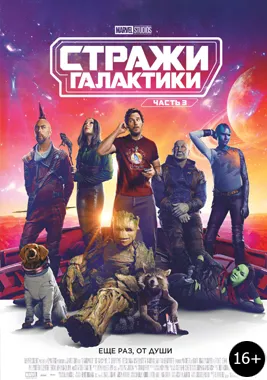
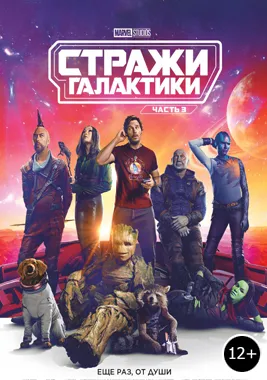
13-05-23

diff --git a/src/Content/Seans/scedule.js b/src/Content/Seans/scedule.js
@@ -1,2 +1,2 @@
-let scedule = {"day0":[["11:00","Яга и книга заклинаний 2D","6+",220],["13:00","Кот в сапогах 2: Последнее желание 2D","6+",300],["15:00","Вызов 2D","6+",350],["18:15","Стражи Галактики. Часть 3 2D","16+",420],["21:15","Стражи Галактики. Часть 3 2D","16+",370]],"day1":[["10:00","Яга и книга заклинаний 2D","6+",220],["12:00","Кот в сапогах 2: Последнее желание 2D","6+",300],["14:00","Вызов 2D","6+",350],["17:15","Достать ножи: Стеклянная луковица 2D","16+",370],["19:50","Вызов 2D","6+",400],["23:00","Улыбка 2D","18+",320]],"day2":[["11:00","Яга и книга заклинаний 2D","6+",220],["13:00","Кот в сапогах 2: Последнее желание 2D","6+",300],["15:00","Вызов 2D","6+",350],["18:15","Вызов 2D","6+",400],["21:25","Достать ножи: Стеклянная луковица 2D","16+",300]],"day3":[["13:15","Яга и книга заклинаний 2D","6+",220],["15:10","Вызов 2D","6+",250],["18:15","Джон Уик 4 2D","18+",300],["21:25","Вызов 2D","6+",330]],"day4":[["12:45","Вызов 2D","6+",230]],"day5":[["12:30","Вызов 2D","6+",230],["15:40","Кот в сапогах 2: Последнее желание 2D","6+",250],["17:35","Яга и книга заклинаний 2D","6+",300],["19:30","Вызов 2D","6+",400],["22:40","Стражи Галактики. Часть 3 2D","16+",420]],"day6":[["11:00","Яга и книга заклинаний 2D","6+",220],["13:00","Вызов 2D","6+",330],["16:15","Вызов 2D","6+",370],["19:30","Стражи Галактики. Часть 3 2D","16+",420],["22:30","Стражи Галактики. Часть 3 2D","16+",420]]}
+let scedule = {"day0":[["11:00","Яга и книга заклинаний 2D","6+",220],["13:00","Кот в сапогах 2: Последнее желание 2D","6+",300],["15:00","Вызов 2D","6+",350],["18:15","Стражи Галактики. Часть 3 2D","12+",420],["21:15","Стражи Галактики. Часть 3 2D","12+",370]],"day1":[["13:30","Яга и книга заклинаний 2D","6+",220],["15:20","Вызов 2D","6+",250],["18:30","Стражи Галактики. Часть 3 2D","12+",350],["21:25","Стражи Галактики. Часть 3 2D","12+",350]],"day2":[["12:30","Вызов 2D","6+",220],["15:35","Стражи Галактики. Часть 3 2D","12+",280],["18:25","Вызов 2D","6+",330],["21:35","Стражи Галактики. Часть 3 2D","12+",350]],"day3":[["13:30","Кот в сапогах 2: Последнее желание 2D","6+",220],["15:20","Вызов 2D","6+",250],["18:30","Стражи Галактики. Часть 3 2D","12+",350],["21:25","Стражи Галактики. Часть 3 2D","12+",350]],"day4":[["12:45","Вызов 2D","6+",230]],"day5":[["12:30","Вызов 2D","6+",230],["15:40","Кот в сапогах 2: Последнее желание 2D","6+",250],["17:35","Яга и книга заклинаний 2D","6+",300],["19:30","Вызов 2D","6+",400],["22:40","Стражи Галактики. Часть 3 2D","12+",420]],"day6":[["11:00","Яга и книга заклинаний 2D","6+",220],["13:00","Вызов 2D","6+",330],["16:15","Вызов 2D","6+",370],["19:30","Стражи Галактики. Часть 3 2D","12+",420],["22:30","Стражи Галактики. Часть 3 2D","12+",420]]}
 export default scedule;

diff --git a/src/REDUX/filmsArray.js b/src/REDUX/filmsArray.js
@@ -46,21 +46,6 @@ export const filmsArray = [
     playerCode: 'NUo2GccvGqY',
     link: 'yaga',
   },
-  // {
-  //   title: 'Достать ножи: Стеклянная луковица',
-  //   beginDate: 'с 4 мая ',
-  //   endDate: '',
-  //   kind: 'Детектив, комедия, криминал',
-  //   director: 'Райан Джонсон',
-  //   duration: '139 мин. / 02:19',
-  //   age: '16+',
-  //   actors:
-  //     'Дэниэл Крэйг, Эдвард Нортон, Жанель Моне, Кэтрин Хан, Лесли Одом мл., Кейт Хадсон, Дэйв Батиста, Джессика Хенвик, Мэдлин Клайн, Ноа Сеган',
-  //   description:
-  //     'Май 2020 года. Сидящим на карантине губернаторше, учёному, бывшей модели и стримеру приходят ящики-головоломки с приглашениями от их общего друга, технологического миллиардера Майлза Брона, посетить особняк на частном греческом острове и принять участие в игре с загадкой «убийства» хозяина вечеринки. Аналогичную посылку получает и мающийся от безделья частный детектив Бенуа Блан и с энтузиазмом принимает приглашение. Прибывшая в Грецию разношёрстная компания удивлена и не особо рада появлению Энди Бранд — бывшей деловой партнёрши Майлза, у которой он отсудил компанию. Напряжение нарастает, когда в процессе вечеринки происходит настоящее убийство.',
-  //   playerCode: 'HC_94DsBdSc',
-  //   link: 'glass_onion',
-  // },
 
   {
     title: 'Стражи Галактики. Часть 3',
@@ -69,7 +54,7 @@ export const filmsArray = [
     kind: 'Фантастика, боевик, комедия, приключения',
     director: 'Джеймс Ганн',
     duration: '150 мин. / 02:30',
-    age: '16+',
+    age: '12+',
     actors:
       'Крис Пратт, Карен Гиллан, Пом Клементьефф, Дэйв Батиста, Зои Салдана, Чукуди Ивуджи, Брэдли Купер, Уилл Поултер, Вин Дизель, Шон Ганн',
     description:

diff --git a/src/REDUX/seansReduser.js b/src/REDUX/seansReduser.js
@@ -5,15 +5,15 @@ const CREATE_ACTUAL_DATES_ARR = 'CREATE_ACTUAL_DATES_ARR'
 let initialState = {
   datesArr: [
     ['day0', 'Воскресенье', '14 мая'],
-    ['day1', 'Понедельник', '8 мая'],
-    ['day2', 'Вторник', '9 мая'],
-    ['day3', 'Среда', '10 мая'],
+    ['day1', 'Понедельник', '15 мая'],
+    ['day2', 'Вторник', '16 мая'],
+    ['day3', 'Среда', '17 мая'],
     ['day4', 'Четверг', '11 мая'],
     ['day5', 'Пятница', '12 мая'],
     ['day6', 'Суббота', '13 мая'],
   ],
   actualDatesArr: [], // массив с датами, расположенными в правильном порядке
-  weekStartsFrom: 'monday', // monday либо любое другое значение
+  weekStartsFrom: 'th', // monday либо любое другое значение
   activeSceduleItemKey: '',
   buttonTitle: null,
 }

diff --git a/index.html b/index.html
@@ -7,8 +7,8 @@
     <link rel="preload" as="image" href="/Images/logo.png" />
     <meta name="viewport" content="width=dev ice-width, initial-scale=1.0" />
     <meta name="theme-color" content="#000000" />
-    <meta http-equiv="Pragma" content="no-cache" />
-    <meta http-equiv="Expires" content="0" />
+    <!-- <meta http-equiv="Pragma" content="no-cache" />
+    <meta http-equiv="Expires" content="0" /> -->
     <title>Кинотеатр "Современник"</title>
   </head>
   <body>
